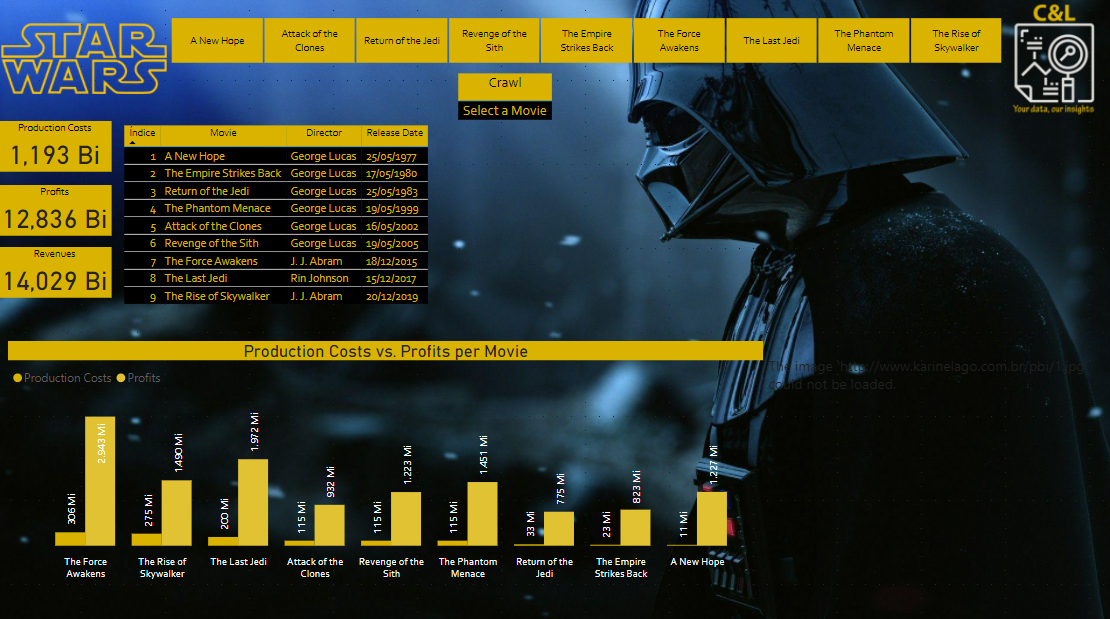
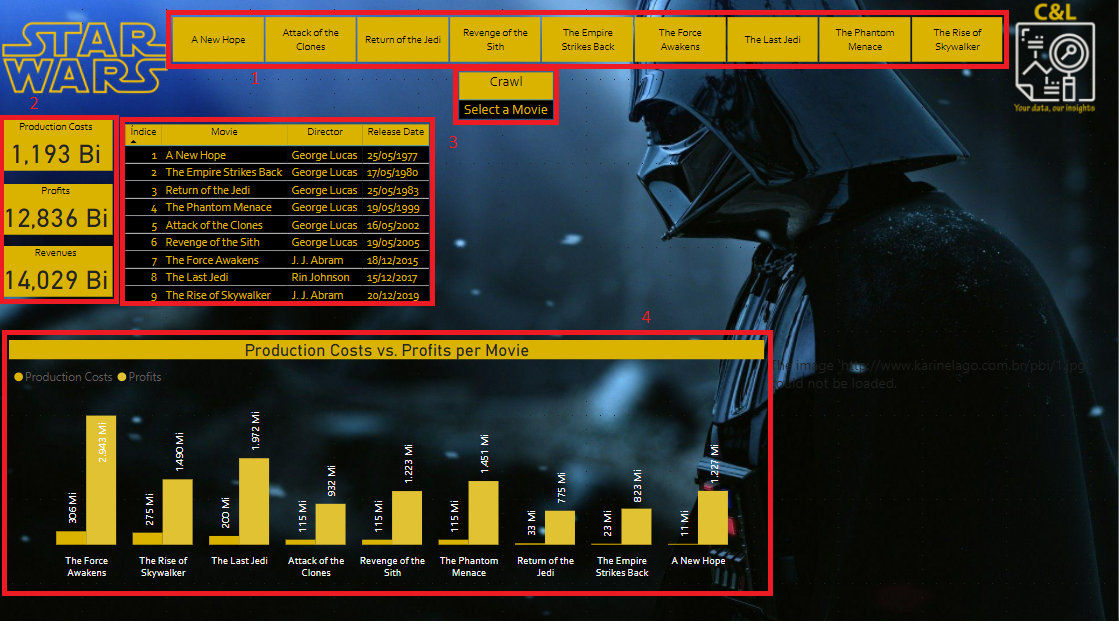
10th Commit

diff --git a/01-Star_Wars/README.md b/01-Star_Wars/README.md
@@ -1,11 +1,17 @@
 # STAR WARS
 
-<img src="Prints/1.png" alt="Star Wars print 1" width="1024"/>
-
 This dashboard based on the Star Wars movies was created to show a comparison between the USD values of Production Costs, Total Revenue and Total Profit involving each of the 9 movies in the series.
 
 In addition, you can also access the movie crawl and the movie cover photo by selecting each one from the top menu.
 
-The information in this report was extracted from [The Numbers](https://www.the-numbers.com/movies/franchise/Star-Wars#tab=summary) website, this is a website specialized in providing this type of information about the Movie Business.
+The information in this report was extracted from [The Numbers](https://www.the-numbers.com/movies/franchise/Star-Wars#tab=summary) website, this website is specialized in providing this type of information about the Movie Business.
 
 It is worth remembering that none of the information on this dashboard is private or confidential.
+
+Now, let me show you what this dashboard looks like and also the elements that were used in its construction. 
+
+The panel was built using a data segmenter, which works as the report filter (1), we have some cards, which present data on production costs, profits and revenue (2), we have two tables that present the list of films and also the movie crawl (3) and we have a bar graph that compares the values of Production Cost and Profits per movie (4).
+
+<img src="Prints/1.png" alt="Star Wars print 1" width="1024"/>
+
+<img src="Prints/2.png" alt="Star Wars print 1" width="1024"/>
